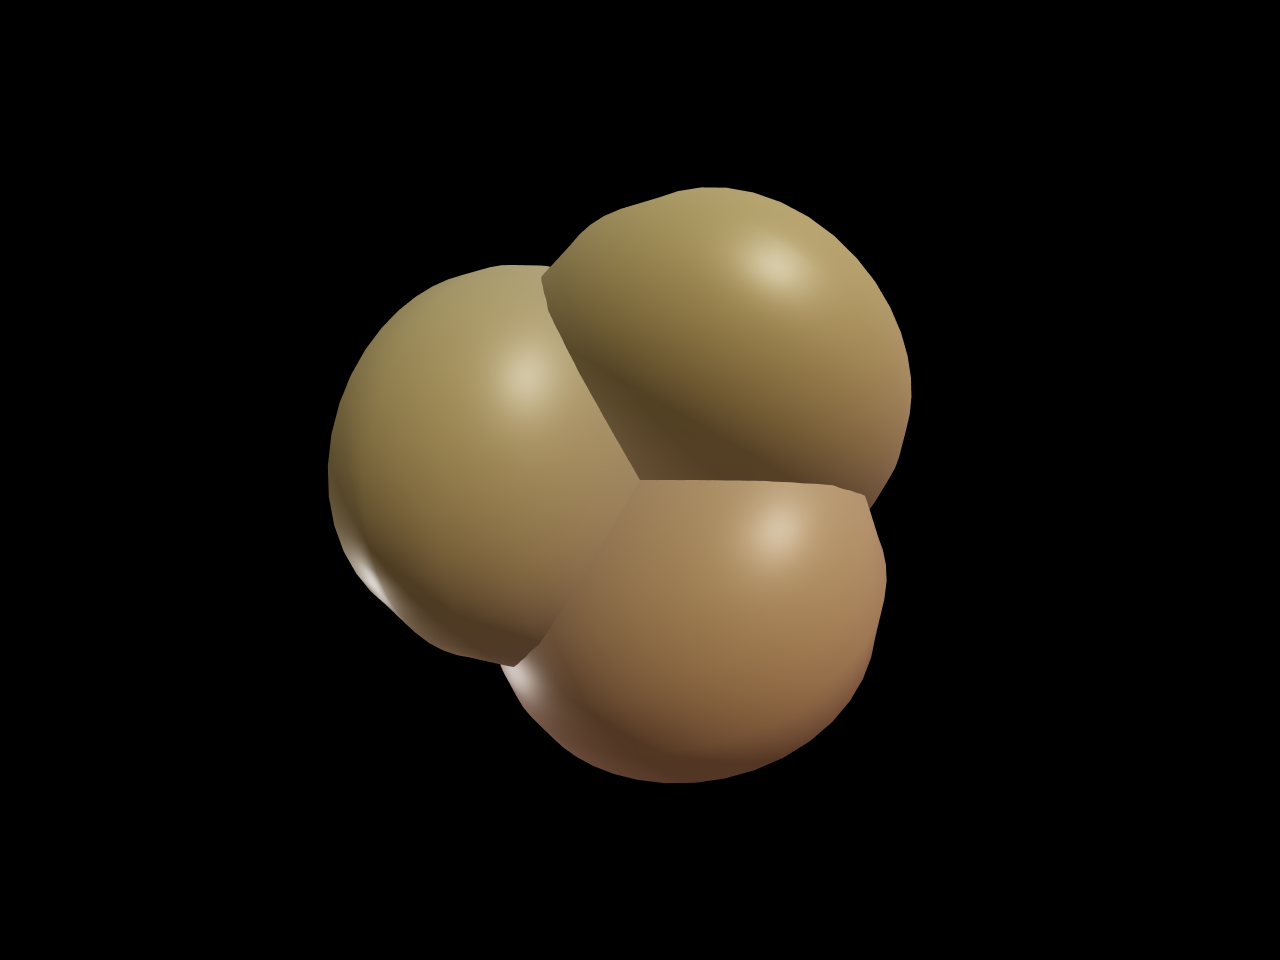
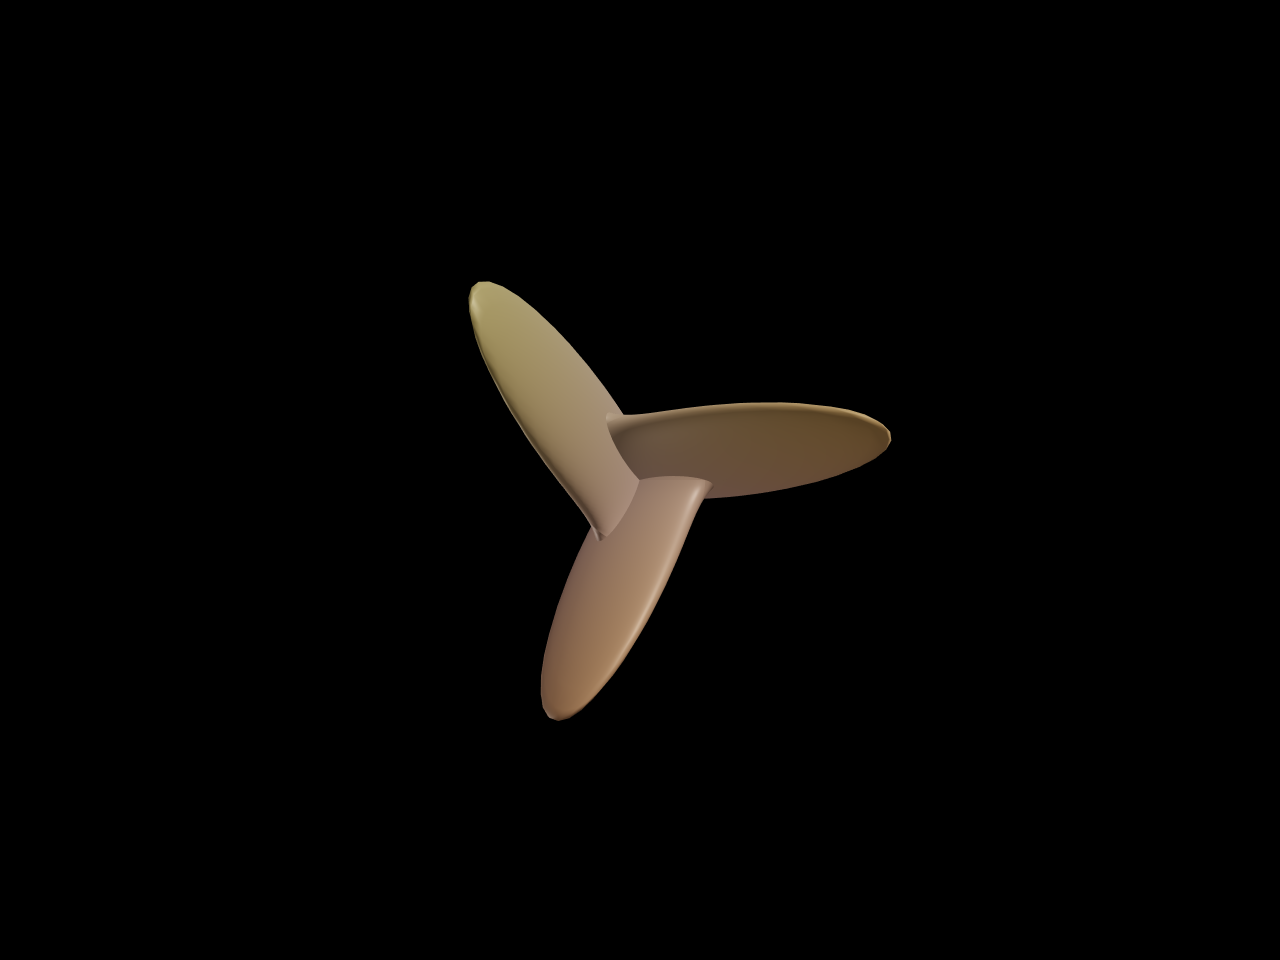
Fix Boy surface to Morin–Apéry immersion.

Changed region(s): [[0.25, 0.1875, 0.7188, 0.8125]]

diff --git a/packages/frontend/src/utils/boySurface.ts b/packages/frontend/src/utils/boySurface.ts
@@ -1,13 +1,8 @@
 const EPS = 1e-15
-const DENOM_EPS = 1e-18
-const NR = 48
-const NT = 96
-const SQRT5 = Math.sqrt(5)
-
-type Complex = {
-	re: number
-	im: number
-}
+const DENOM_EPS = 1e-8
+const SQRT2 = Math.sqrt(2)
+const U_RES = 80
+const V_RES = 80
 
 export type BoyPoint = {
 	x: number
@@ -21,55 +16,19 @@ export type BoyMesh = {
 	colors: Float32Array
 }
 
-function cmul(a: Complex, b: Complex): Complex {
-	return {
-		re: a.re * b.re - a.im * b.im,
-		im: a.re * b.im + a.im * b.re,
-	}
-}
-
-function cdiv(a: Complex, b: Complex): Complex | null {
-	const d = b.re * b.re + b.im * b.im
-	if (d < DENOM_EPS) {
-		return null
+/** Morin–Apéry Boy immersion (homotopy parameter 1). u,v ∈ [0, π]. */
+export function boyPoint(u: number, v: number): BoyPoint {
+	const s2v = Math.sin(2 * v)
+	const cv2 = Math.cos(v) * Math.cos(v)
+	let d = 2 - SQRT2 * Math.sin(3 * u) * s2v
+	if (Math.abs(d) < DENOM_EPS) {
+		d = d >= 0 ? DENOM_EPS : -DENOM_EPS
 	}
 	return {
-		re: (a.re * b.re + a.im * b.im) / d,
-		im: (a.im * b.re - a.re * b.im) / d,
+		x: (SQRT2 * Math.cos(2 * u) * cv2 + Math.cos(u) * s2v) / d,
+		y: (SQRT2 * Math.sin(2 * u) * cv2 - Math.sin(u) * s2v) / d,
+		z: (3 * cv2) / d,
 	}
-}
-
-/** Bryant–Kusner: w ↦ (g1,g2,g3)/|g|² on the unit disk. */
-export function boyPoint(re: number, im: number): BoyPoint | null {
-	const w: Complex = { re, im }
-	const w2 = cmul(w, w)
-	const w3 = cmul(w2, w)
-	const w4 = cmul(w2, w2)
-	const w6 = cmul(w3, w3)
-	const denom: Complex = {
-		re: w6.re + SQRT5 * w3.re - 1,
-		im: w6.im + SQRT5 * w3.im,
-	}
-	const q1 = cdiv(cmul(w, { re: 1 - w4.re, im: -w4.im }), denom)
-	const q2 = cdiv(cmul(w, { re: 1 + w4.re, im: w4.im }), denom)
-	const q3 = cdiv({ re: 1 + w6.re, im: w6.im }, denom)
-	if (q1 === null || q2 === null || q3 === null) {
-		return null
-	}
-	const g1 = -1.5 * q1.im
-	const g2 = -1.5 * q2.re
-	const g3 = q3.im - 0.5
-	const n2 = g1 * g1 + g2 * g2 + g3 * g3
-	if (n2 < DENOM_EPS) {
-		return null
-	}
-	const x = g1 / n2
-	const y = g2 / n2
-	const z = g3 / n2
-	if (!Number.isFinite(x) || !Number.isFinite(y) || !Number.isFinite(z)) {
-		return null
-	}
-	return { x, y, z }
 }
 
 function centerAndScale(positions: Float32Array, targetRadius: number) {
@@ -111,85 +70,42 @@ function centerAndScale(positions: Float32Array, targetRadius: number) {
 	}
 }
 
-function ringIndex(ir: number, it: number): number {
-	return 1 + (ir - 1) * NT + it
-}
-
 export function buildBoyMesh(): BoyMesh {
-	const origin = boyPoint(0, 0)
-	const pts: (BoyPoint | null)[] = [origin]
-	for (let ir = 1; ir <= NR; ir++) {
-		const r = ir / NR
-		for (let it = 0; it < NT; it++) {
-			const th = (2 * Math.PI * it) / NT
-			pts.push(boyPoint(r * Math.cos(th), r * Math.sin(th)))
+	const uCount = U_RES + 1
+	const vCount = V_RES + 1
+	const positions = new Float32Array(uCount * vCount * 3)
+	for (let iv = 0; iv < vCount; iv++) {
+		const v = (Math.PI * iv) / V_RES
+		for (let iu = 0; iu < uCount; iu++) {
+			const u = (Math.PI * iu) / U_RES
+			const p = boyPoint(u, v)
+			const i = (iv * uCount + iu) * 3
+			positions[i] = p.x
+			positions[i + 1] = p.y
+			positions[i + 2] = p.z
 		}
 	}
 
-	const vertIndex: number[] = []
-	for (let i = 0; i < pts.length; i++) {
-		vertIndex.push(-1)
-	}
-	const pos: number[] = []
 	const idx: number[] = []
-
-	const ensureVert = (i: number): number => {
-		if (vertIndex[i] >= 0) {
-			return vertIndex[i]
-		}
-		const p = pts[i]
-		if (p === null) {
-			return -1
-		}
-		const vi = pos.length / 3
-		pos.push(p.x, p.y, p.z)
-		vertIndex[i] = vi
-		return vi
-	}
-
-	const emit = (a: number, b: number, c: number) => {
-		if (pts[a] === null || pts[b] === null || pts[c] === null) {
-			return
-		}
-		const ia = ensureVert(a)
-		const ib = ensureVert(b)
-		const ic = ensureVert(c)
-		if (ia < 0 || ib < 0 || ic < 0) {
-			return
-		}
-		idx.push(ia, ib, ic)
-	}
-
-	for (let it = 0; it < NT; it++) {
-		const it2 = (it + 1) % NT
-		emit(0, ringIndex(1, it), ringIndex(1, it2))
-	}
-	for (let ir = 1; ir < NR; ir++) {
-		for (let it = 0; it < NT; it++) {
-			const it2 = (it + 1) % NT
-			const a = ringIndex(ir, it)
-			const b = ringIndex(ir, it2)
-			const c = ringIndex(ir + 1, it)
-			const d = ringIndex(ir + 1, it2)
-			emit(a, c, b)
-			emit(b, c, d)
+	for (let iv = 0; iv < V_RES; iv++) {
+		for (let iu = 0; iu < U_RES; iu++) {
+			const i00 = iv * uCount + iu
+			const i10 = i00 + 1
+			const i01 = i00 + uCount
+			const i11 = i01 + 1
+			idx.push(i00, i01, i10, i10, i01, i11)
 		}
 	}
 
-	const positions = new Float32Array(pos)
-	const indices = new Uint32Array(idx)
 	centerAndScale(positions, 1.7)
-
 	const colors = new Float32Array(positions.length)
-	const span = 3.4
 	for (let i = 0; i < positions.length; i += 3) {
-		const u = (positions[i] + 1.7) / span
-		const v = (positions[i + 1] + 1.7) / span
-		const w = (positions[i + 2] + 1.7) / span
-		colors[i] = 0.72 + 0.22 * u
-		colors[i + 1] = 0.42 + 0.28 * v
+		const uu = (positions[i] + 1.7) / 3.4
+		const vv = (positions[i + 1] + 1.7) / 3.4
+		const w = (positions[i + 2] + 1.7) / 3.4
+		colors[i] = 0.72 + 0.22 * uu
+		colors[i + 1] = 0.42 + 0.28 * vv
 		colors[i + 2] = 0.18 + 0.55 * (1 - w)
 	}
-
-	return { positions, indices, colors }
+	return { positions, indices: new Uint32Array(idx), colors }
 }

diff --git a/packages/frontend/src/pages/misc/boy_surface.tsx b/packages/frontend/src/pages/misc/boy_surface.tsx
@@ -48,7 +48,7 @@ const BoySurface = () => {
 			progressTick={tick}
 			autoRotate={!isScreenshotMode()}
 			autoRotateSpeed={0.32}
-			cameraPosition={[0, 0, 3.7]}
+			cameraPosition={[0, 0, 4.2]}
 		/>
 	)
 }
@@ -57,25 +57,22 @@ BoySurface.getDescription = () => (
 	<>
 		Boy’s surface (Werner Boy, 1901) is an immersion of the real projective plane{' '}
 		<InlineMath math="\mathbb{RP}^2" /> in <InlineMath math="\mathbb{R}^3" />: a triple point and
-		self-intersection curves, so it is not an embedding. This page uses the Bryant–Kusner
-		parametrization on the unit disk.
+		self-intersection curves, so it is not an embedding. This page uses Apéry’s trigonometric
+		parametrization.
 		<br />
 		<br />
-		<strong>Parametrization</strong> for <InlineMath math="\|w\|\le 1" />:
+		<strong>Parametrization</strong> (Morin–Apéry) with <InlineMath math="u,v\in[0,\pi]" />:
 		<BlockMath
 			math={
-				'g_1=-\\tfrac{3}{2}\\operatorname{Im}\\bigl[w(1-w^4)/(w^6+\\sqrt{5}w^3-1)\\bigr]'
+				'x = \\bigl(\\sqrt{2}\\,\\cos 2u\\,\\cos^2 v + \\cos u\\,\\sin 2v\\bigr)/\\bigl(2-\\sqrt{2}\\,\\sin 3u\\,\\sin 2v\\bigr)'
 			}
 		/>
 		<BlockMath
 			math={
-				'g_2=-\\tfrac{3}{2}\\operatorname{Re}\\bigl[w(1+w^4)/(w^6+\\sqrt{5}w^3-1)\\bigr]'
+				'y = \\bigl(\\sqrt{2}\\,\\sin 2u\\,\\cos^2 v - \\sin u\\,\\sin 2v\\bigr)/\\bigl(2-\\sqrt{2}\\,\\sin 3u\\,\\sin 2v\\bigr)'
 			}
 		/>
-		<BlockMath
-			math={'g_3=\\operatorname{Im}\\bigl[(1+w^6)/(w^6+\\sqrt{5}w^3-1)\\bigr]-\\tfrac{1}{2}'}
-		/>
-		<BlockMath math={'(x,y,z)=(g_1,g_2,g_3)/(g_1^2+g_2^2+g_3^2)'} />
+		<BlockMath math={'z = 3\\cos^2 v\\,/\\,\\bigl(2-\\sqrt{2}\\,\\sin 3u\\,\\sin 2v\\bigr)'} />
 		<br />
 		Transport <code>n</code> reveals triangles.
 	</>

diff --git a/packages/frontend/src/__tests__/misc/boy_surface.test.ts b/packages/frontend/src/__tests__/misc/boy_surface.test.ts
@@ -2,12 +2,8 @@ import { describe, it, expect } from 'vitest'
 import { boyPoint, buildBoyMesh } from '../../utils/boySurface'
 
 describe('boyPoint', () => {
-	it('is finite at the origin', () => {
-		const p = boyPoint(0, 0)
-		expect(p).not.toBeNull()
-		if (p === null) {
-			return
-		}
+	it('is finite on a UV sample', () => {
+		const p = boyPoint(0.4, 0.7)
 		expect(Number.isFinite(p.x)).toBe(true)
 		expect(Number.isFinite(p.y)).toBe(true)
 		expect(Number.isFinite(p.z)).toBe(true)
@@ -19,7 +15,6 @@ describe('buildBoyMesh', () => {
 		const mesh = buildBoyMesh()
 		expect(mesh.indices.length).toBeGreaterThan(100)
 		expect(mesh.indices.length % 3).toBe(0)
-		expect(mesh.indices.length / 3).toBeGreaterThan(100)
 		expect(mesh.colors.length).toBe(mesh.positions.length)
 		for (let i = 0; i < mesh.positions.length; i++) {
 			expect(Number.isFinite(mesh.positions[i])).toBe(true)
